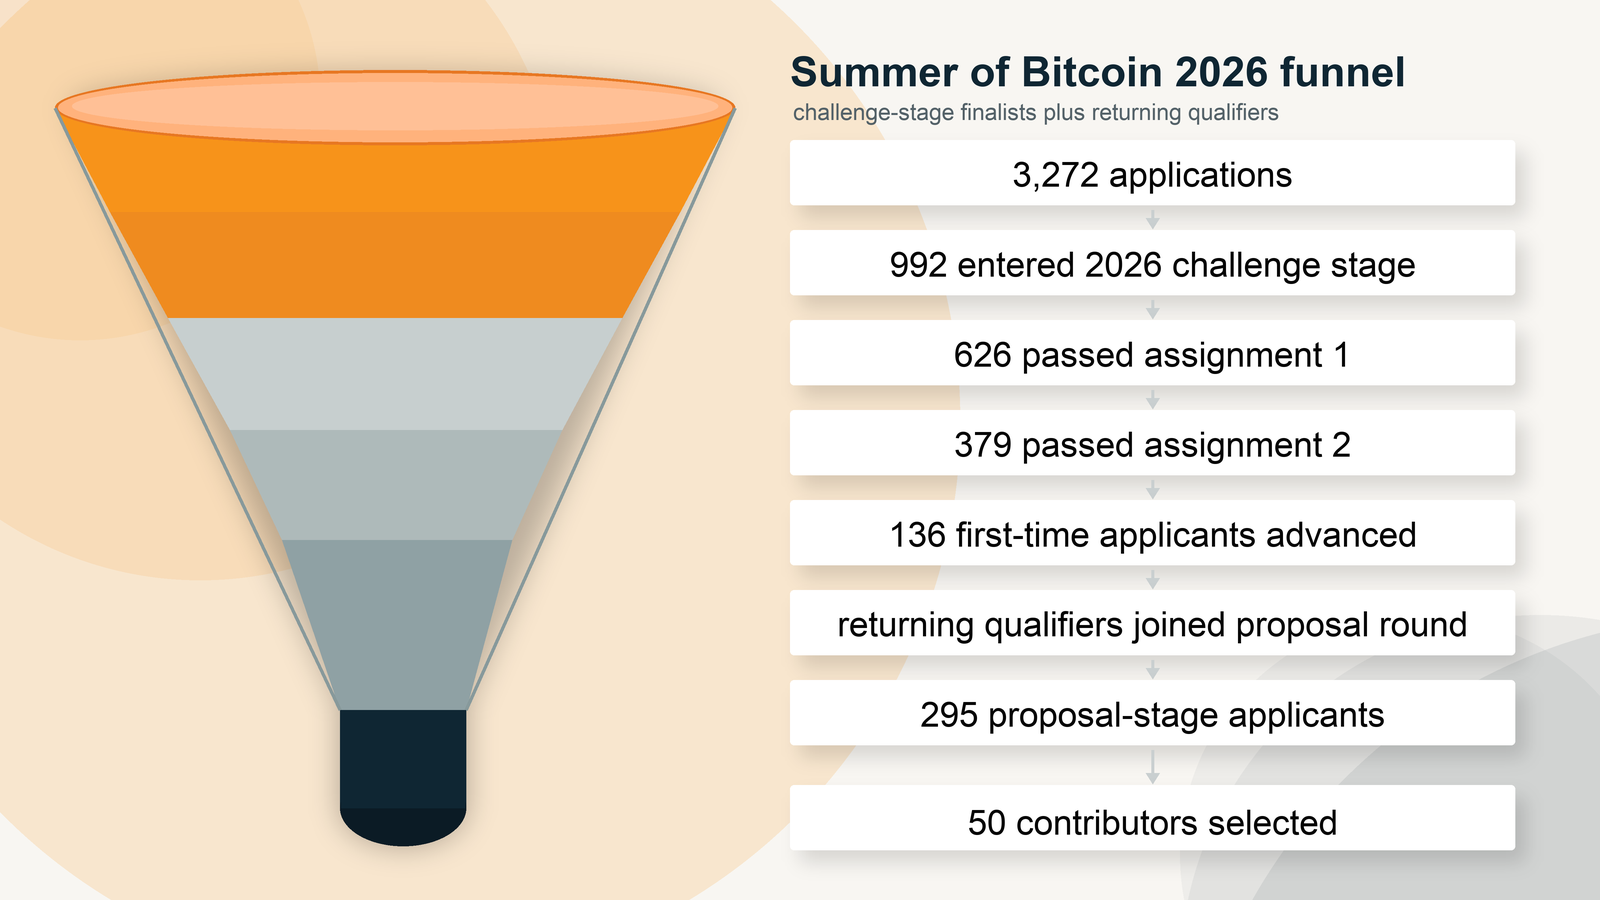
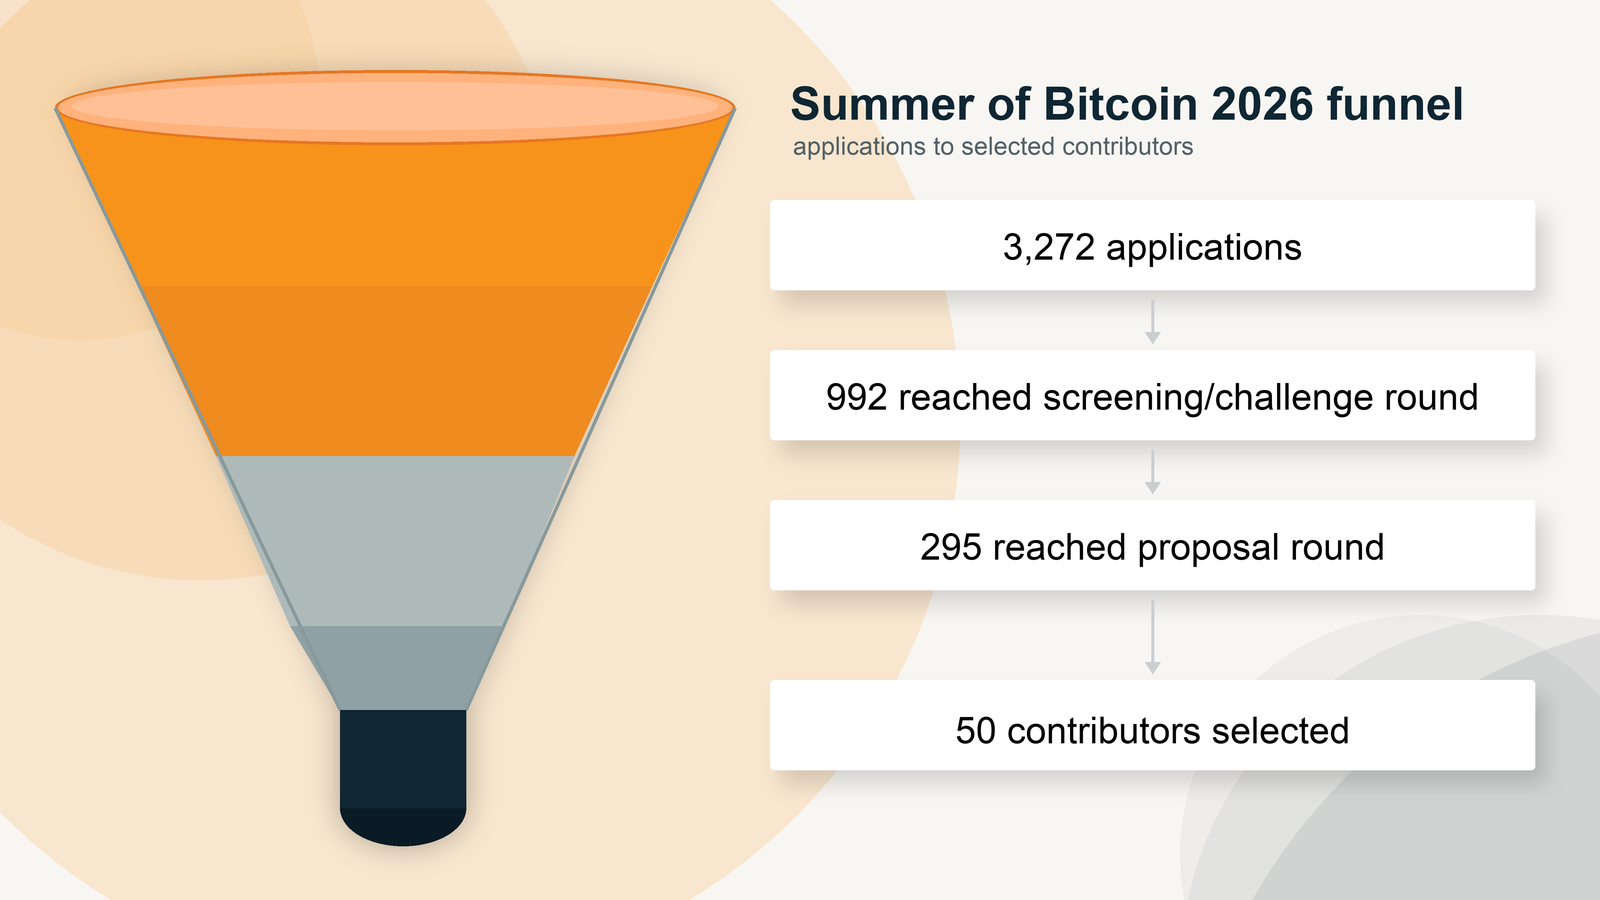
Restructure 2026 announcement

Changed region(s): [[0.4688, 0.0622, 0.9688, 0.9644], [0.0625, 0.2489, 0.4062, 0.7467], [0.4062, 0.2178, 0.4375, 0.3111]]

diff --git a/_posts/2026-06-02-summer-of-bitcoin-2026-announcing-the-next-generation-of-bitcoin-builders.md b/_posts/2026-06-02-summer-of-bitcoin-2026-announcing-the-next-generation-of-bitcoin-builders.md
@@ -11,59 +11,82 @@ image: "./assets/images/blog_content/summer-of-bitcoin-2026-results.png"
 
 We are excited to announce the results for Summer of Bitcoin 2026!
 
-This year, students applied to the developer and designer tracks from around the world. We also deliberately leveled up the application stage for an AI-native world. AI tools have made it easier than ever to produce polished portfolios, code samples, and quick one-off submissions. Instead of trying to screen AI out, we made the challenge round difficult enough that candidates had to use every tool available well.
+This year, 50 student contributors have been selected to work with 26 open-source bitcoin organizations across the developer and designer tracks.
 
-The point was to see who could use AI to deepen their understanding of the bitcoin protocol, validate their assumptions, accelerate real development, and still explain trade-offs clearly. The strongest applicants were not just generating code. They were using AI as a learning and building partner while showing protocol knowledge, judgment, and the ability to ship reviewable work.
+## Application Funnel
 
-For developer applicants, this meant a sequence of grueling real-world bitcoin engineering challenges:
+The 2026 application process brought together a large global pool of students and narrowed it through screening, challenges, proposals, and mentor review.
 
-*   **Week 1: Chain Lens** - build a transaction parser and visualizer that turns raw Bitcoin transaction and block data into machine-checkable JSON and human-friendly explanations.
-*   **Week 2: Coin Smith** - build a safe PSBT transaction builder with coin selection, fee/change handling, defensive validation, and a web UI to justify the result.
-*   **Week 3: Sherlock** - build a chain analysis engine over real block data, apply privacy and wallet heuristics, generate Markdown reports, and present the findings in an interactive visualizer.
-
-For design applicants, the challenge round moved from first-time bitcoin wallet analysis to user research, persona mapping, and high-fidelity wallet interaction design around keys, backups, payment states, fees, privacy warnings, and other user-facing bitcoin flows.
-
-These were not toy problems. Some of the best submissions were technically rigorous and creative enough to be useful to non-technical users on day one. As one example from the chain-analysis challenge, a student from India built and demoed a polished visual analysis tool: [watch the walkthrough](https://www.youtube.com/watch?v=OcI5FrvTMRY).
-
-One important nuance: the proposal round was broader than the assignment funnel alone. Returning applicants who had already qualified for the proposal round in previous years were eligible to submit proposals without repeating the challenge stage. The current proposal pool combined 136 first-time applicants who advanced through this year's challenge round, 154 returning applicants who were already eligible from prior years, and a small number of additional eligible applicants.
-
-Here is what the funnel looked like:
+Here is the high-level funnel:
 
 *   3,272 applicants from 51 countries and 1,813 universities
-*   992 students reached the screening and challenge stage
-*   626 students passed assignment 1
-*   379 students passed assignment 2
-*   136 first-time applicants advanced from this year's final challenge stage
-*   154 returning applicants were already eligible for the proposal round from prior years
-*   A small number of additional eligible applicants completed the proposal pool
-*   295 applicants reached the proposal stage, with 379 proposal records reviewed
-*   50 student contributors selected across 26 open-source bitcoin organizations
-*   44 developer placements and 6 designer placements
+*   992 students reached the screening and challenge round
+*   295 applicants reached the proposal round
+*   50 student contributors were selected across 26 open-source bitcoin organizations
 
 <figure>
 <img src="../assets/images/blog_content/summer-of-bitcoin-2026-results.png"/>
-<figcaption>Summer of Bitcoin 2026 narrowed 3,272 applications into 50 selected contributors through a multi-week challenge and proposal process</figcaption>
+<figcaption>Summer of Bitcoin 2026 narrowed 3,272 applications into 50 selected contributors</figcaption>
 </figure>
 
-The selected cohort represents 7 countries: Australia, Costa Rica, Germany, India, Nigeria, Spain, and the United States. Contributors will work on bitcoin protocol infrastructure, wallets, developer tooling, privacy, testing, mining, bitcoin applications, and design projects. This year's project ideas were scoped with mentors for a 12-week full-time summer window, so students can move from onboarding to meaningful public work in code, design, research, and documentation.
+## Challenge Round
 
-This year's participating organizations are: asmap, BDK, Bitcoin Core, Bitcoin Design, Bitcoin-Fuzz, Braidpool, Coinswap, ContextVM, Cove, Demand, Fedimint, Floresta, Flotilla, Formstr, Jam, Kern, Krux, Mostro, Nostr Components, Nostream, SeedSigner, Shopstr, smite, Stable Channels, strfry, and VLS.
+This year's application process was different from past years. We deliberately designed the challenge round for an AI-native world.
 
-All student contributors have been paired with mentors and began the project period on May 18. Over the first few weeks, students are getting set up in project repositories and communities, confirming milestones with mentors, and beginning early implementation or design discovery. The project period continues through August 16, with mid-term evaluations scheduled for June 29 to July 3.
+AI tools have made it easier than ever to produce polished portfolios, code samples, and quick one-off submissions. Instead of trying to screen AI out, the challenges raised the bar for using AI well.
 
-Upon successful completion of their evaluations, all student contributors will receive stipends in BTC. Stipends are calculated based on each student's location using a Purchasing Power Parity (PPP) model and paid in two installments after the mid-term and final evaluations.
+The goal was to see who could use AI to deepen their understanding of the Bitcoin protocol, validate assumptions, accelerate real development, and still explain trade-offs clearly.
 
----
+The strongest applicants were not just generating code. They used AI as a learning and building partner while showing protocol knowledge, judgment, and the ability to ship reviewable work.
+
+Developer applicants worked through real Bitcoin engineering problems: a transaction parser and visualizer, a safe PSBT transaction builder, and a chain-analysis engine using real block data.
+
+Design applicants moved from wallet analysis into user research, persona mapping, and high-fidelity wallet interaction design around keys, backups, payment states, fees, and privacy warnings.
+
+Some of the best submissions were technically rigorous and creative enough to be useful to non-technical users on day one. One student from India demoed a polished chain-analysis tool: [watch the walkthrough](https://www.youtube.com/watch?v=OcI5FrvTMRY).
+
+## Selected Cohort
+
+The selected cohort represents 7 countries: Australia, Costa Rica, Germany, India, Nigeria, Spain, and the United States. It includes 44 developer placements and 6 designer placements.
+
+This year's participating organizations are:
+
+*   asmap, BDK, Bitcoin Core, Bitcoin Design, Bitcoin-Fuzz, Braidpool, and Coinswap
+*   ContextVM, Cove, Demand, Fedimint, Floresta, Flotilla, and Formstr
+*   Jam, Kern, Krux, Mostro, Nostr Components, Nostream, and SeedSigner
+*   Shopstr, smite, Stable Channels, strfry, and VLS
+
+Contributors will work on Bitcoin protocol infrastructure, wallets, developer tooling, privacy, testing, mining, Bitcoin applications, and design projects.
+
+This year's project ideas were scoped with mentors for a 12-week full-time summer window, so students can move from onboarding to meaningful public work in code, design, research, and documentation.
+
+## What Happens Next
+
+All student contributors have been paired with mentors. The project period began on May 18 and continues through August 16.
+
+Over the next couple of weeks, students will get set up in project repositories and communities, confirm milestones with mentors, and begin early implementation or design discovery.
+
+Mid-term evaluations are scheduled for June 29 to July 3.
+
+Upon successful completion of their evaluations, all student contributors will receive stipends in BTC.
+
+Stipends are calculated based on each student's location using a Purchasing Power Parity (PPP) model and paid in two installments after the mid-term and final evaluations.
+
+## Thank You
 
 We are incredibly thankful to our 2026 program sponsors, **Spiral**, **Human Rights Foundation**, **BTrust**, and **OpenSats**, for their generous financial support towards funding student stipends and operations.
 
 We are also thankful to every mentor who reviewed proposals and helped shape student projects. Summer of Bitcoin works because open-source teams make time to turn promising students into real contributors.
 
----
+## Epilogue
 
-To the thousands of applicants from all over the world who applied to the program, thank you for your effort. You now have a deeper understanding of how bitcoin works and have explored projects across the bitcoin open-source ecosystem. We hope you continue to stay engaged with your favorite open-source communities.
+To the thousands of applicants from all over the world who applied to the program, thank you for your effort.
 
-For the students who could not make it, we would like to point you to our [student guide](https://guide.summerofbitcoin.org/being-turned-down), which has suggestions on what to do if you were not selected for this year's program. It also has a chapter on [Getting started with an organization and project](https://guide.summerofbitcoin.org/the-proposal-round/getting-started-with-an-organization-and-project), which is helpful whether you would like to connect with projects now on your own or decide to apply to Summer of Bitcoin in the future - which we hope you do!
+You now have a deeper understanding of how Bitcoin works and have explored projects across the Bitcoin open-source ecosystem. We hope you continue to stay engaged with your favorite open-source communities.
+
+For the students who could not make it, we would like to point you to our [student guide](https://guide.summerofbitcoin.org/being-turned-down), which has suggestions on what to do if you were not selected for this year's program.
+
+It also has a chapter on [Getting started with an organization and project](https://guide.summerofbitcoin.org/the-proposal-round/getting-started-with-an-organization-and-project), which is helpful whether you connect with projects now or apply again in the future - which we hope you do!
 
 ---
 